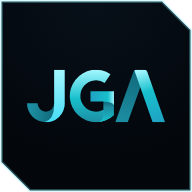
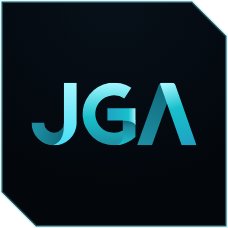
Signature: tile as tall as the text block, web address only
The JGA tile grows from 64 to 76px so its foot lines up with the web
address line, and the Background/Trayectoria link is dropped. The 1x image
is renamed to jga-firma-76.png to match.

Claude-Session: https://claude.ai/code/session_01YLm4yMRd5mX4aHQSeW6DKC

diff --git a/brand/email/firma-en.html b/brand/email/firma-en.html
@@ -1,11 +1,11 @@
 <table cellpadding="0" cellspacing="0" border="0" role="presentation" style="border-collapse:collapse;color:inherit;font-family:Arial,Helvetica,sans-serif;">
 <tr>
-<td style="padding:0 14px 0 0;vertical-align:top;"><a href="https://jgarciaarteaga.pro/en/" style="text-decoration:none;"><img src="https://jgarciaarteaga.pro/firma/jga-firma.png" width="64" height="64" alt="JGA" style="display:block;width:64px;height:64px;border:0;"></a></td>
+<td style="padding:0 14px 0 0;vertical-align:top;"><a href="https://jgarciaarteaga.pro/en/" style="text-decoration:none;"><img src="https://jgarciaarteaga.pro/firma/jga-firma.png" width="76" height="76" alt="JGA" style="display:block;width:76px;height:76px;border:0;"></a></td>
 <td style="vertical-align:top;color:inherit;font-family:Arial,Helvetica,sans-serif;font-size:14px;line-height:20px;">
 <div style="font-size:18px;line-height:22px;font-weight:bold;color:#128c9f;">Dr. Juan García Arteaga</div>
 <div style="font-size:11px;line-height:16px;letter-spacing:1.5px;padding-top:3px;">EAR, NOSE AND THROAT</div>
 <div style="width:40px;height:0;border-top:2px solid #a87414;margin:7px 0 6px 0;font-size:0;line-height:0;">&nbsp;</div>
-<div><a href="https://jgarciaarteaga.pro/en/" style="color:#128c9f;text-decoration:none;">jgarciaarteaga.pro</a>&nbsp;&nbsp;·&nbsp;&nbsp;<a href="https://bio.jgarciaarteaga.pro/?lang=en" style="color:#128c9f;text-decoration:none;">Background</a></div>
+<div><a href="https://jgarciaarteaga.pro/en/" style="color:#128c9f;text-decoration:none;">jgarciaarteaga.pro</a></div>
 </td>
 </tr>
 </table>

diff --git a/brand/email/firma-es.html b/brand/email/firma-es.html
@@ -1,11 +1,11 @@
 <table cellpadding="0" cellspacing="0" border="0" role="presentation" style="border-collapse:collapse;color:inherit;font-family:Arial,Helvetica,sans-serif;">
 <tr>
-<td style="padding:0 14px 0 0;vertical-align:top;"><a href="https://jgarciaarteaga.pro/es/" style="text-decoration:none;"><img src="https://jgarciaarteaga.pro/firma/jga-firma.png" width="64" height="64" alt="JGA" style="display:block;width:64px;height:64px;border:0;"></a></td>
+<td style="padding:0 14px 0 0;vertical-align:top;"><a href="https://jgarciaarteaga.pro/es/" style="text-decoration:none;"><img src="https://jgarciaarteaga.pro/firma/jga-firma.png" width="76" height="76" alt="JGA" style="display:block;width:76px;height:76px;border:0;"></a></td>
 <td style="vertical-align:top;color:inherit;font-family:Arial,Helvetica,sans-serif;font-size:14px;line-height:20px;">
 <div style="font-size:18px;line-height:22px;font-weight:bold;color:#128c9f;">Dr. Juan García Arteaga</div>
 <div style="font-size:11px;line-height:16px;letter-spacing:1.5px;padding-top:3px;">OTORRINOLARINGOLOGÍA</div>
 <div style="width:40px;height:0;border-top:2px solid #a87414;margin:7px 0 6px 0;font-size:0;line-height:0;">&nbsp;</div>
-<div><a href="https://jgarciaarteaga.pro/es/" style="color:#128c9f;text-decoration:none;">jgarciaarteaga.pro</a>&nbsp;&nbsp;·&nbsp;&nbsp;<a href="https://bio.jgarciaarteaga.pro/" style="color:#128c9f;text-decoration:none;">Trayectoria</a></div>
+<div><a href="https://jgarciaarteaga.pro/es/" style="color:#128c9f;text-decoration:none;">jgarciaarteaga.pro</a></div>
 </td>
 </tr>
 </table>

diff --git a/README.md b/README.md
@@ -33,7 +33,7 @@ npm run build    # genera dist/
 - `firma-movil.txt`: la versión de solo texto para la firma de la app de Gmail en el móvil.
 - `jga-firma.svg`: el isotipo sobre un cuadro oscuro con esquinas cortadas y fondo transparente.
 
-La imagen se sirve desde la web: `public/firma/jga-firma.png` (192 × 192, se muestra a 64 × 64) y `public/firma/jga-firma-64.png` (64 × 64, para insertarla por URL).
+La imagen se sirve desde la web: `public/firma/jga-firma.png` (228 × 228, se muestra a 76 × 76, la altura del texto de la firma) y `public/firma/jga-firma-76.png` (76 × 76, para insertarla por URL).
 Se regeneran con `node scripts/make-signature.mjs` (requiere Playwright con Chromium).
 
 ## Holograma
